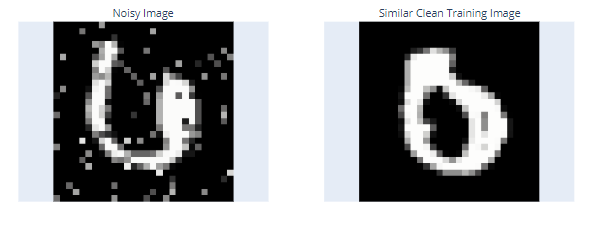
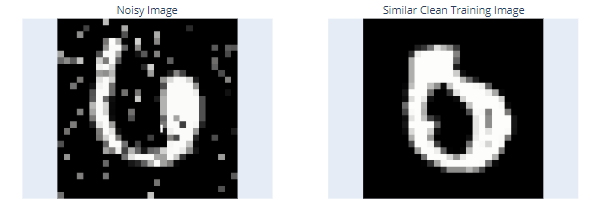
have noise visualizations

diff --git a/visualize_convnet.py b/visualize_convnet.py
@@ -1,0 +1,242 @@
+"""
+Copyright (c) 2017, Gavin Weiguang Ding
+All rights reserved.
+Redistribution and use in source and binary forms, with or without
+    modification, are permitted provided that the following conditions are met:
+1. Redistributions of source code must retain the above copyright notice, this
+    list of conditions and the following disclaimer.
+2. Redistributions in binary form must reproduce the above copyright notice,
+    this list of conditions and the following disclaimer in the documentation
+    and/or other materials provided with the distribution.
+3. Neither the name of the copyright holder nor the names of its contributors
+    may be used to endorse or promote products derived from this software
+    without specific prior written permission.
+THIS SOFTWARE IS PROVIDED BY THE COPYRIGHT HOLDERS AND CONTRIBUTORS "AS IS"
+    AND ANY EXPRESS OR IMPLIED WARRANTIES, INCLUDING, BUT NOT LIMITED TO, THE
+    IMPLIED WARRANTIES OF MERCHANTABILITY AND FITNESS FOR A PARTICULAR PURPOSE
+    ARE DISCLAIMED. IN NO EVENT SHALL THE COPYRIGHT HOLDER OR CONTRIBUTORS BE
+    LIABLE FOR ANY DIRECT, INDIRECT, INCIDENTAL, SPECIAL, EXEMPLARY, OR
+    CONSEQUENTIAL DAMAGES (INCLUDING, BUT NOT LIMITED TO, PROCUREMENT OF
+    SUBSTITUTE GOODS OR SERVICES; LOSS OF USE, DATA, OR PROFITS; OR BUSINESS
+    INTERRUPTION) HOWEVER CAUSED AND ON ANY THEORY OF LIABILITY, WHETHER IN
+    CONTRACT, STRICT LIABILITY, OR TORT (INCLUDING NEGLIGENCE OR OTHERWISE)
+    ARISING IN ANY WAY OUT OF THE USE OF THIS SOFTWARE, EVEN IF ADVISED OF THE
+    POSSIBILITY OF SUCH DAMAGE.
+"""
+
+#Modified from original version to handle activations
+
+import os
+import numpy as np
+import matplotlib.pyplot as plt
+plt.rcdefaults()
+from matplotlib.lines import Line2D
+from matplotlib.patches import Rectangle
+from matplotlib.patches import Circle
+
+NumDots = 4
+NumConvMax = 8
+NumFcMax = 20
+White = 1.
+Light = 0.7
+Medium = 0.5
+Dark = 0.3
+Darker = 0.15
+Black = 0.
+
+
+def add_layer(patches, colors, size=(24, 24), num=5,
+              top_left=[0, 0],
+              loc_diff=[3, -3],
+              ):
+    # add a rectangle
+    top_left = np.array(top_left)
+    loc_diff = np.array(loc_diff)
+    loc_start = top_left - np.array([0, size[0]])
+    for ind in range(num):
+        patches.append(Rectangle(loc_start + ind * loc_diff, size[1], size[0]))
+        if ind % 2:
+            colors.append(Medium)
+        else:
+            colors.append(Light)
+
+
+def add_layer_with_omission(patches, colors, size=(24, 24),
+                            num=5, num_max=8,
+                            num_dots=4,
+                            top_left=[0, 0],
+                            loc_diff=[3, -3],
+                            ):
+    # add a rectangle
+    top_left = np.array(top_left)
+    loc_diff = np.array(loc_diff)
+    loc_start = top_left - np.array([0, size[0]])
+    this_num = min(num, num_max)
+    start_omit = (this_num - num_dots) // 2
+    end_omit = this_num - start_omit
+    start_omit -= 1
+    for ind in range(this_num):
+        if (num > num_max) and (start_omit < ind < end_omit):
+            omit = True
+        else:
+            omit = False
+
+        if omit:
+            patches.append(
+                Circle(loc_start + ind * loc_diff + np.array(size) / 2, 0.5))
+        else:
+            patches.append(Rectangle(loc_start + ind * loc_diff,
+                                     size[1], size[0]))
+
+        if omit:
+            colors.append(Black)
+        elif ind % 2:
+            colors.append(Medium)
+        else:
+            colors.append(Light)
+
+
+def add_mapping(patches, colors, start_ratio, end_ratio, patch_size, ind_bgn,
+                top_left_list, loc_diff_list, num_show_list, size_list):
+
+    start_loc = top_left_list[ind_bgn] \
+        + (num_show_list[ind_bgn] - 1) * np.array(loc_diff_list[ind_bgn]) \
+        + np.array([start_ratio[0] * (size_list[ind_bgn][1] - patch_size[1]),
+                    - start_ratio[1] * (size_list[ind_bgn][0] - patch_size[0])]
+                   )
+
+
+
+
+    end_loc = top_left_list[ind_bgn + 1] \
+        + (num_show_list[ind_bgn + 1] - 1) * np.array(
+            loc_diff_list[ind_bgn + 1]) \
+        + np.array([end_ratio[0] * size_list[ind_bgn + 1][1],
+                    - end_ratio[1] * size_list[ind_bgn + 1][0]])
+
+
+    patches.append(Rectangle(start_loc, patch_size[1], -patch_size[0]))
+    colors.append(Dark)
+    patches.append(Line2D([start_loc[0], end_loc[0]],
+                          [start_loc[1], end_loc[1]]))
+    colors.append(Darker)
+    patches.append(Line2D([start_loc[0] + patch_size[1], end_loc[0]],
+                          [start_loc[1], end_loc[1]]))
+    colors.append(Darker)
+    patches.append(Line2D([start_loc[0], end_loc[0]],
+                          [start_loc[1] - patch_size[0], end_loc[1]]))
+    colors.append(Darker)
+    patches.append(Line2D([start_loc[0] + patch_size[1], end_loc[0]],
+                          [start_loc[1] - patch_size[0], end_loc[1]]))
+    colors.append(Darker)
+
+
+
+def label(xy, text, xy_off=[0, 4]):
+    plt.text(xy[0] + xy_off[0], xy[1] + xy_off[1], text,
+             family='sans-serif', size=8)
+
+
+if __name__ == '__main__':
+
+    fc_unit_size = 2
+    layer_width = 40
+    flag_omit = True
+
+    patches = []
+    colors = []
+
+    fig, ax = plt.subplots()
+
+
+    ############################
+    # conv layers
+    size_list = [(28, 28), (24, 24), (12, 12), (12, 12), (8, 8), (4, 4), (4, 4)]
+    num_list = [1, 3, 3, 3, 5, 5, 5]
+    x_diff_list = [0, layer_width, layer_width, layer_width, layer_width, layer_width, layer_width]
+    text_list = ['Input'] + ['Feature\nmaps'] * (len(size_list) - 1)
+    loc_diff_list = [[3, -3]] * len(size_list)
+
+    num_show_list = list(map(min, num_list, [NumConvMax] * len(num_list)))
+    top_left_list = np.c_[np.cumsum(x_diff_list), np.zeros(len(x_diff_list))]
+
+    for ind in range(len(size_list)-1,-1,-1):
+        if flag_omit:
+            add_layer_with_omission(patches, colors, size=size_list[ind],
+                                    num=num_list[ind],
+                                    num_max=NumConvMax,
+                                    num_dots=NumDots,
+                                    top_left=top_left_list[ind],
+                                    loc_diff=loc_diff_list[ind])
+        else:
+            add_layer(patches, colors, size=size_list[ind],
+                      num=num_show_list[ind],
+                      top_left=top_left_list[ind], loc_diff=loc_diff_list[ind])
+        label(top_left_list[ind], text_list[ind] + '\n{}@{}x{}'.format(
+            num_list[ind], size_list[ind][0], size_list[ind][1]))
+
+    ############################
+    # in between layers
+    start_ratio_list = [[0.4, 0.5], [0.4, 0.8], [0.4, 0.5], [0.4, 0.8], [0.4, 0.5], [0.4, 0.8]]
+    end_ratio_list = [[0.4, 0.5], [0.4, 0.8], [0.4, 0.5], [0.4, 0.8], [0.4, 0.5], [0.4, 0.8]]
+    patch_size_list = [(5, 5, 1), (2, 2), (1,1), (5, 5, 3), (2, 2), (1,1)]
+    ind_bgn_list = range(len(patch_size_list))
+    text_list = ['Convolution', 'Max-pooling', 'ReLU\nActivation', 'Convolution', 'Max-pooling', 'ReLU\nActivation']
+
+    for ind in range(len(patch_size_list)):
+        add_mapping(
+            patches, colors, start_ratio_list[ind], end_ratio_list[ind],
+            patch_size_list[ind], ind,
+            top_left_list, loc_diff_list, num_show_list, size_list)
+        
+        if patch_size_list[ind] == (1,1):
+            label_val = text_list[ind]
+        else:
+            label_val = text_list[ind] + '\n{}x{} kernel'.format(patch_size_list[ind][0], patch_size_list[ind][1])
+        label(top_left_list[ind], label_val, xy_off=[26, -65])
+
+
+    ############################
+    # fully connected layers
+    size_list = [(fc_unit_size, fc_unit_size)] * 3
+    num_list = [80, 500, 10]
+    num_show_list = list(map(min, num_list, [NumFcMax] * len(num_list)))
+    x_diff_list = [sum(x_diff_list) + layer_width, layer_width, layer_width]
+    top_left_list = np.c_[np.cumsum(x_diff_list), np.zeros(len(x_diff_list))]
+    loc_diff_list = [[fc_unit_size, -fc_unit_size]] * len(top_left_list)
+    text_list = ['Hidden\nunits'] * (len(size_list) - 1) + ['Outputs']
+
+    for ind in range(len(size_list)):
+        if flag_omit:
+            add_layer_with_omission(patches, colors, size=size_list[ind],
+                                    num=num_list[ind],
+                                    num_max=NumFcMax,
+                                    num_dots=NumDots,
+                                    top_left=top_left_list[ind],
+                                    loc_diff=loc_diff_list[ind])
+        else:
+            add_layer(patches, colors, size=size_list[ind],
+                      num=num_show_list[ind],
+                      top_left=top_left_list[ind],
+                      loc_diff=loc_diff_list[ind])
+        label(top_left_list[ind], text_list[ind] + '\n{}'.format(
+            num_list[ind]))
+
+    text_list = ['Flatten\n', 'Fully connected\nw\\ ReLU Activation', 'Fully connected\nw\\ ReLU Activation']
+
+    for ind in range(len(size_list)):
+        label(top_left_list[ind], text_list[ind], xy_off=[-10, -65])
+
+    ############################
+    for patch, color in zip(patches, colors):
+        patch.set_color(color * np.ones(3))
+        if isinstance(patch, Line2D):
+            ax.add_line(patch)
+        else:
+            patch.set_edgecolor(Black * np.ones(3))
+            ax.add_patch(patch)
+
+    plt.tight_layout()
+    plt.axis('equal')
+    plt.axis('off')
+    plt.show()

diff --git a/tasks/visualize_noise_on_filter.py b/tasks/visualize_noise_on_filter.py
@@ -18,13 +18,19 @@ def visualize_noisy_affects_filter():
     seed = 2
     data_name = 'MNIST'
     show_all = False
-    noise_type = 'snp'
+    noise_type = 'gaussian'
+
+    # Save indices
+    if noise_type == 'snp':
+        save_indices = [118, 175]
+    else:
+        save_indices = [333, 1444]
 
     # Download MNIST data set
     set_seed(seed)
-    test_set = get_data(data_name, False)
     test_set_n = get_data(data_name, False, noise_type, 0.1)
-
+    test_set = get_data(data_name, False)
+    
     # Create models
     conv_net = ConvClassificationModel()
 
@@ -36,18 +42,15 @@ def visualize_noisy_affects_filter():
     filter_results = {}
     for i in range(len(test_set)):
         clean_data, original_label = test_set[i]
-        noisy_data, _ = test_set_n[i]
-
         clean_data_torch = clean_data.view(1, *clean_data.shape).float()
-        noisy_data_torch = noisy_data.view(1, *noisy_data.shape).float()
-
         clean_label = conv_net.get_label(clean_data_torch).detach().numpy()[0][0]
-        noisy_label = conv_net.get_label(noisy_data_torch).detach().numpy()[0][0]
-
         clean_p_dist = np.round(np.exp(conv_net.classify(clean_data_torch).detach().numpy()[0]), decimals=2)
-        noisy_p_dist = np.round(np.exp(conv_net.classify(noisy_data_torch).detach().numpy()[0]), decimals=2)
-
         clean_data_np = np.flipud(clean_data.detach().numpy()[0,:,:])
+
+        noisy_data, _ = test_set_n[i]
+        noisy_data_torch = noisy_data.view(1, *noisy_data.shape).float()
+        noisy_label = conv_net.get_label(noisy_data_torch).detach().numpy()[0][0]
+        noisy_p_dist = np.round(np.exp(conv_net.classify(noisy_data_torch).detach().numpy()[0]), decimals=2)
         noisy_data_np = np.flipud(noisy_data.detach().numpy()[0,:,:])
 
         label_mismatch = original_label == clean_label and original_label != noisy_label
@@ -55,6 +58,11 @@ def visualize_noisy_affects_filter():
         if show_all or label_mismatch:
             raw_results[i] = (clean_data_np, noisy_data_np, original_label, clean_label, noisy_label, clean_p_dist, noisy_p_dist)
             filter_results[i] = (get_plots(clean_data_torch, conv_net), get_plots(noisy_data_torch, conv_net))
+
+            if i in save_indices:
+                # Dump output
+                filename = 'data\\{}\\noisy_data_np\\{}_{}'.format(data_name, noise_type, i)
+                np.save(filename, noisy_data_np)
 
     # Create dash app
     external_stylesheets = ['https://codepen.io/chriddyp/pen/bWLwgP.css']
@@ -235,4 +243,4 @@ def visualize_noisy_affects_filter():
 
         return fig, 'Original Label: {}'.format(original_label), clean_desc, noisy_desc
 
-    app.run_server(debug=True)
+    app.run_server(port=8051, debug=True)

diff --git a/tasks/search_filter_representation.py b/tasks/search_filter_representation.py
@@ -23,26 +23,30 @@ def search_for_filter_match():
     seed = 2
     data_name = 'MNIST'
     show_all = False
-    noise_type = 'snp'
-    noisy_image_index = 175
-
-    # Download MNIST data set
-    set_seed(seed)
-    train_set = get_data(data_name, True)
-    test_set_n = get_data(data_name, False, noise_type, 0.1)
-
+    noise_type = 'gaussian'
+    noisy_image_index = 1444
+    min_sim_score = 0.5
+    
     # Create models
+    set_seed(seed)
     conv_net = ConvClassificationModel()
 
     # Load models
     conv_net.load(torch.load('models\\pre_trained_models\\mnist_digit_conv.model'))
 
+    # Read noisy image file
+    filename = 'data\\{}\\noisy_data_np\\{}_{}.npy'.format(data_name, noise_type, noisy_image_index)
+    noisy_data = np.flipud(np.load(filename)).copy()
+
     # Get second feature representation for index
-    noisy_data, original_label = test_set_n[noisy_image_index]
-    noisy_data_torch = noisy_data.view(1, *noisy_data.shape).float()
+    noisy_data_torch = torch.from_numpy(noisy_data)
+    noisy_data_torch = noisy_data_torch.view(1, 1, *noisy_data_torch.shape).float()
     noisy_label = conv_net.get_label(noisy_data_torch).detach().numpy()[0][0]
     noisy_second_feature_set = get_plots(noisy_data_torch, conv_net)[(2, 'Filter')][0]
 
+    # Get training data set
+    train_set = get_data(data_name, True)
+    
     # Search for similar clean feature set
     similar_feature_sets = []
     max_sim = -float('inf')
@@ -61,7 +65,7 @@ def search_for_filter_match():
                 simularity += calculate_similarity(clean_second_feature_set[j,:,:], noisy_second_feature_set[j,:,:])
             simularity /= float(num_features)
 
-            if simularity > 0.7:
+            if simularity > min_sim_score:
                 data = (simularity, i, clean_data, clean_second_feature_set)
                 similar_feature_sets.append(data)
             if simularity > max_sim:
@@ -158,7 +162,7 @@ def search_for_filter_match():
 
         raw_fig.add_trace(
             go.Heatmap(
-                z=np.flipud(noisy_data.detach().numpy()[0,:,:]),
+                z=np.flipud(noisy_data),
                 type='heatmap', 
                 coloraxis='coloraxis',
                 showscale=False
@@ -192,4 +196,4 @@ def search_for_filter_match():
 
         return filter_fig, raw_fig, 'Similarity Score: {}'.format(sim_score)
 
-    app.run_server(debug=True)
+    app.run_server(port=8052, debug=True)

diff --git a/adversarial_tasks.py b/adversarial_tasks.py
@@ -14,10 +14,10 @@ def main():
     #visualize_adv_affects_accuracy()
 
     # Visualize noisy image effects on filters
-    visualize_noisy_affects_filter()
+    #visualize_noisy_affects_filter()
 
     # Search for structural similar features
-    #search_for_filter_match()
+    search_for_filter_match()
 
     
 if __name__ == '__main__':
